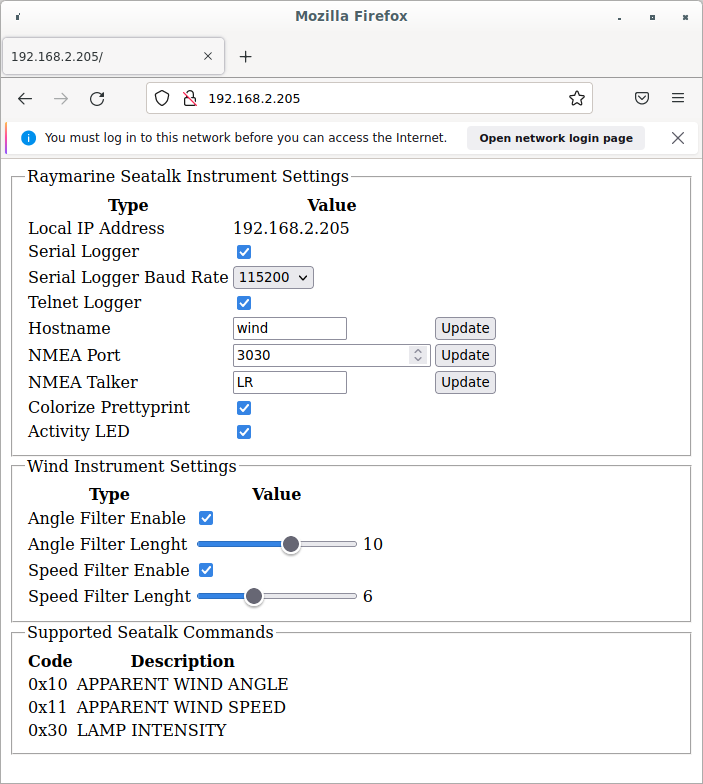
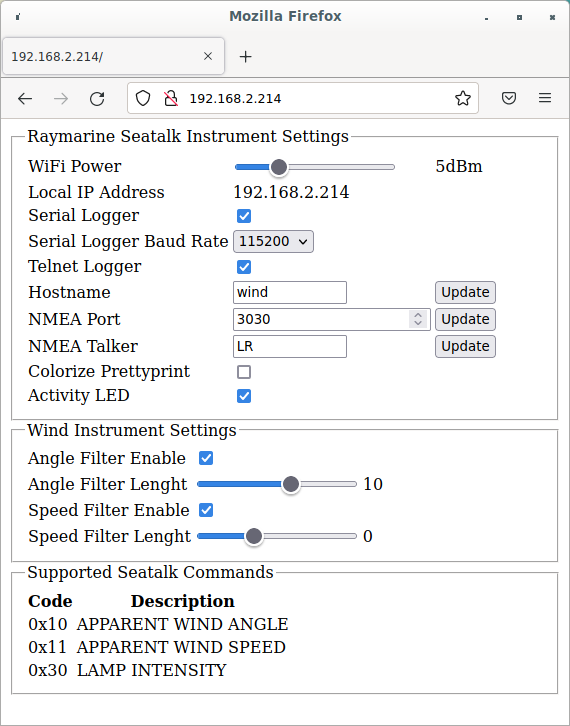
Added WiFi power settings.

diff --git a/sw/web_pages.h b/sw/web_pages.h
@@ -40,6 +40,8 @@ const char homepage[] = R"=====(
     document.getElementsByName("nmea_talker")[0].value = urlParams.get('nmea_talker').substr(0, 2);
     document.getElementsByName("colorize")[0].checked = (parseInt(urlParams.get('colorize'), 10) == 1);
     document.getElementsByName("led")[0].checked = (parseInt(urlParams.get('led'), 10) == 1);
+    document.getElementsByName("wifi_power")[0].valueAsNumber = parseInt(urlParams.get('wifi_power'), 10);
+    document.getElementsByName("slider_wifi_power")[0].innerHTML = "" + ((1.0 * parseInt(urlParams.get('wifi_power'), 10)) / 2) + "dBm"
   }
   function pull_wind_settings(xhttp) {
     const urlParams = new URLSearchParams(xhttp.responseText);
@@ -52,7 +54,7 @@ const char homepage[] = R"=====(
     document.getElementsByName("angle_slider")[0].valueAsNumber = parseInt(urlParams.get('filter_angle_len'), 10);
     document.getElementsByName("speed_slider")[0].valueAsNumber = parseInt(urlParams.get('filter_speed_len'), 10);
     document.getElementsByName("slider_angle_len")[0].innerHTML = "" + parseInt(urlParams.get('filter_angle_len'), 10)
-    document.getElementsByName("slider_speed_len")[0].innerHTML = "" + parseInt(urlParams.get('filter_speed_len'), 10)
+    
   }
   function push_settings()
   {
@@ -72,6 +74,7 @@ const char homepage[] = R"=====(
     url += (document.getElementsByName("colorize")[0].checked == true) ? 1 : 0
     url += "&led="
     url += (document.getElementsByName("led")[0].checked == true) ? 1 : 0
+    url += "&wifi_power=" + document.getElementsByName("wifi_power")[0].valueAsNumber
     const xhttp=new XMLHttpRequest();
     xhttp.onload = function() {post_update(this);}
     xhttp.open("GET", url);
@@ -100,13 +103,18 @@ const char homepage[] = R"=====(
       document.getElementsByName("slider_speed_len")[0].innerHTML =
         "" + document.getElementsByName("speed_slider")[0].valueAsNumber;
   }
+  function oninput_wifi_slider() {
+      document.getElementsByName("slider_wifi_power")[0].innerHTML =
+        "" + (1.0 * document.getElementsByName("wifi_power")[0].valueAsNumber / 2) + "dBm";
+  }
 </script>
 </head>
 <body onload="load_body()">
 <fieldset>
 <legend>Raymarine Seatalk Instrument Settings</legend>
 <table>
-<tr><th>Type</th><th>Value</th></tr>
+<tr><td>WiFi Power</td><td><input type="range" min="0" max="41" value="10" class="slider" name="wifi_power" onchange="push_settings()" oninput="oninput_wifi_slider()"></td>
+<td><label name="slider_wifi_power">0</label><td></tr>
 <tr><td>Local IP Address</td><td><label name="ipaddr">0.0.0.0</label></td></tr>
 <tr><td>Serial Logger</td><td><input type="checkbox" name="slogger" onclick="pull_settings()"></td></tr>
 <tr>
@@ -135,7 +143,6 @@ const char homepage[] = R"=====(
 <fieldset>
 <legend>Wind Instrument Settings</legend>
 <table>
-<tr><th>Type</th><th>Value</th></tr>
 <tr><td>Angle Filter Enable</td><td><input type="checkbox" name="filter_angle_enable" onclick="push_wind_settings()"></td></tr>
 <tr><td>Angle Filter Lenght</td><td><input type="range" min="1" max="16" value="10" class="slider" name="angle_slider" onchange="push_wind_settings()" oninput="oninput_angle_slider()"></td>
 <td><label name="slider_angle_len">0</label><td></tr>
@@ -157,4 +164,5 @@ const char homepage[] = R"=====(
 </fieldset>
 </body>
 </html>
+
 )=====";

diff --git a/sw/eeprom_helpers.h b/sw/eeprom_helpers.h
@@ -14,113 +14,7 @@
 
 #include "seatalk_wifi.h"
 
-void dump_eeprom(void)
-{
-    Serial.print("\r\n");
-
-    print_attribute(TEXT_ATTRIB_FG_BLUE);
-    Serial.print("     0 1 2 3 4 5 6 7 8 9"
-                   " A B C D E F\r\n");
-    Serial.print("     --------------------------------");
-    print_attribute(TEXT_ATTRIB_NORMAL);
-    for (int i = 0; i < EEPROM.length(); i += 16)
-    {
-        char s[16];
-        sprintf(s, "\r\n%04X ", i);
-        print_attribute(TEXT_ATTRIB_FG_BLUE);
-        Serial.print(s);
-        print_attribute(TEXT_ATTRIB_NORMAL);
-        for (int j = 0; j < 16; j += sizeof(uint8_t))
-        {
-            sprintf(s, "%02X", EEPROM.read(i + j));
-            Serial.print(s);
-        }
-        Serial.print("  ");
-        for (int j = 0; j < 16; j++)
-        {
-            char ch = EEPROM.read(i + j);
-            if ((ch >= ' ') && (ch <= '~'))
-            {
-                sprintf(s, "%c", ch);
-                Serial.print(s);
-            }
-            else
-                Serial.print(".");
-        }
-    }
-    Serial.print("\r\n\r\n");
-}
-
-void print_eeprom(void)
-{
-    Serial.print("EEPROM Contents");
-    Serial.print("\r\n-----------------------------------------");
-    Serial.print("\r\nSerial Logger: ");
-    if (sensor_data.status.serial_logger == 0)
-    {
-        print_attribute(TEXT_ATTRIB_FG_RED);
-        Serial.print("Disabled");
-    }
-    else    
-    {
-        print_attribute(TEXT_ATTRIB_FG_GREEN);
-        Serial.print("Enabled");
-    }
-    print_attribute(TEXT_ATTRIB_NORMAL);
-    Serial.print("\r\nBaud Rate: ");
-    Serial.print(baudrates[sensor_data.status.slogger_baudrate]);
-    Serial.print("\r\nTelnet Logger: ");
-    if (sensor_data.status.telnet_logger == 0)
-    {
-        print_attribute(TEXT_ATTRIB_FG_RED);
-        Serial.print("Disabled");
-    }
-    else    
-    {
-        print_attribute(TEXT_ATTRIB_FG_GREEN);
-        Serial.print("Enabled");
-    }
-    print_attribute(TEXT_ATTRIB_NORMAL);
-    Serial.print("\r\nHostname: ");
-    Serial.print((char *)sensor_data.hostname);
-    Serial.print("\r\nServer Port: ");
-    Serial.print(sensor_data.server_port);
-    Serial.print("\r\nColorize Prettyprint: ");
-    if (sensor_data.status.colorize_prettyprint == 0)
-    {
-        Serial.print("Disabled");
-    }
-    else    
-    {
-        print_attribute(TEXT_ATTRIB_FG_GREEN);
-        Serial.print("Enabled");
-        print_attribute(TEXT_ATTRIB_NORMAL);
-    }
-    Serial.print("\r\nActivity LED: ");
-    if (sensor_data.status.activity_led == 0)
-    {
-        Serial.print("Disabled");
-    }
-    else    
-    {
-        print_attribute(TEXT_ATTRIB_FG_GREEN);
-        Serial.print("Enabled");
-        print_attribute(TEXT_ATTRIB_NORMAL);
-    }
-    Serial.print("\r\n");
-}
-
-void commit_eeprom(void)
-{
-    unsigned char *p = (unsigned char *)&sensor_data;
-    for (int i = 0; i < EEPROM_SIZE; i++)
-        EEPROM.put(i, p[i]);
-    EEPROM.commit();
-}
-
-void erase_eeprom(void)
-{
-    for (int i = 0; i < EEPROM_SIZE; i++)
-        EEPROM.put(i, 0);
-    EEPROM.commit();
-}
+void dump_eeprom(void);
+void print_eeprom(void);
+void commit_eeprom(void);
+void erase_eeprom(void);

diff --git a/sw/seatalk_wifi.h b/sw/seatalk_wifi.h
@@ -100,7 +100,8 @@ struct __status
     volatile uint32_t slogger_baudrate      : 3;
     volatile uint32_t colorize_prettyprint  : 1;
     volatile uint32_t activity_led          : 1;
-             uint32_t                       : 25;
+    volatile uint32_t wifi_power            : 8;
+             uint32_t                       : 17;
 };
 typedef struct __status status_t;
 
@@ -143,11 +144,8 @@ extern unsigned int last_wind_speed;
 
 extern const int baudrates[];
 void print_attribute(text_attribute_t);
+unsigned long float_to_str(char *, float, int);
 
 extern const char homepage[];
-
-void commit_eeprom(void);
-void dump_eeprom(void);
-void print_eeprom(void);
 
 #endif

diff --git a/sw/eeprom_helpers.cpp b/sw/eeprom_helpers.cpp
@@ -70,9 +70,15 @@ void print_status(int st)
 
 void print_eeprom(void)
 {
-    Serial.print("EEPROM Contents");
+    char str[32];
+    Serial.print("\r\n\r\nEEPROM Contents");
     Serial.print("\r\n-----------------------------------------");
-    Serial.print("\r\nSerial Logger: ");
+    Serial.print("\r\nWifi Power: ");
+    str[0] = '\0';
+    float_to_str(str, 0.5 * sensor_data.status.wifi_power, 1);
+    Serial.print(str);
+    Serial.println("dBm");
+    Serial.print("Serial Logger: ");
     print_status(sensor_data.status.serial_logger);
     Serial.print("\r\nBaud Rate: ");
     Serial.print(baudrates[sensor_data.status.slogger_baudrate]);

diff --git a/README.md b/README.md
@@ -48,8 +48,10 @@ board supplies 12V to power the target instrument so that the only
 connection needed for the system to work is a 12V from the boat
 electrical panel.
 
-The circuit is not fused and it is expected that a 1A fused be provided
-during the installation.
+The hardware board is not fused. It is expected that a 0.5A fast acting fuse
+be provided on the 12V supply line going to the circuit. The 12V wire
+that powers the circuit should also be fused at the distribution panel
+or go through an appropriately sized resettable circuit breaker.
 
 ## <a name="schematic"></a> Schematic 
 ![Seatalk_wifi Schematic](pictures/seatalk_wifi.svg)
@@ -153,7 +155,8 @@ both the Telnet server and the NMEA server.
 ## <a name="web_page"></a> Configuration via Web Page
 The software runs a web server that serves a single web page used
 to configure a few parameters of the bridge. Among other things the page allows
-enabling or disabling of the serial and telnet logging windows and the port
+setting the output power for the WiFi transmitter, enabling or disabling
+of the serial and telnet logging windows and the port
 at which the NMEA server is listening. During the first start the software
 creates a configuration space in EEPROM and stores a few default parameters.
 The defaults have been chosen to aid in the debgging of the board during firts
@@ -180,7 +183,7 @@ The web page also lists the SeaTalk sentences that are supported by the bridge.
 In gusty wind conditions the wind angle -and to a lesser extent the speed- returned
 by the wind instrument are subject to very quick jumps only to then return to
 prevailing conditions. To filter out some of the noise introduced by these
-jumps the angle and speed data can be independently filtered by a simple
+jumps the angle and speed data can be independently processed by a simple
 moving average filter. Whether these filters are enabled and their lenght
 can be configured from the web page in the fieldset specific to the wind
 instrument.
